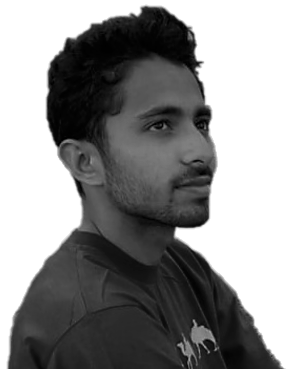
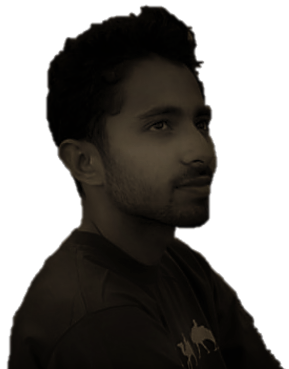
1st

diff --git a/me.css b/me.css
@@ -67,7 +67,7 @@ img{
     width:100%;
     height:94%;
     position: relative;
-    top: 3%;
+    top: 1%;
 }
 dialog{
     top:max(20vh, 100px);
@@ -145,10 +145,10 @@ footer .bigicon{
 }
 #fake{
     height:20vh;
-    background: linear-gradient(transparent 1px, black);
+    background: linear-gradient(transparent 1px, #0a0a0a);
 }
 #main-content{
-    background-color: #000e;
+    background-color: #0a0a0a;
 }
 .bio{
     padding:10vh 10vw 10vh 10vw;
@@ -239,7 +239,7 @@ img:hover + .uper>div, a:hover .uper>div{
     top:-50px;
 }
 img:hover + .bai>div, a:hover .bai>div{
-    left:-20px;
+    left:-26px;
 }
 
 .marker{
